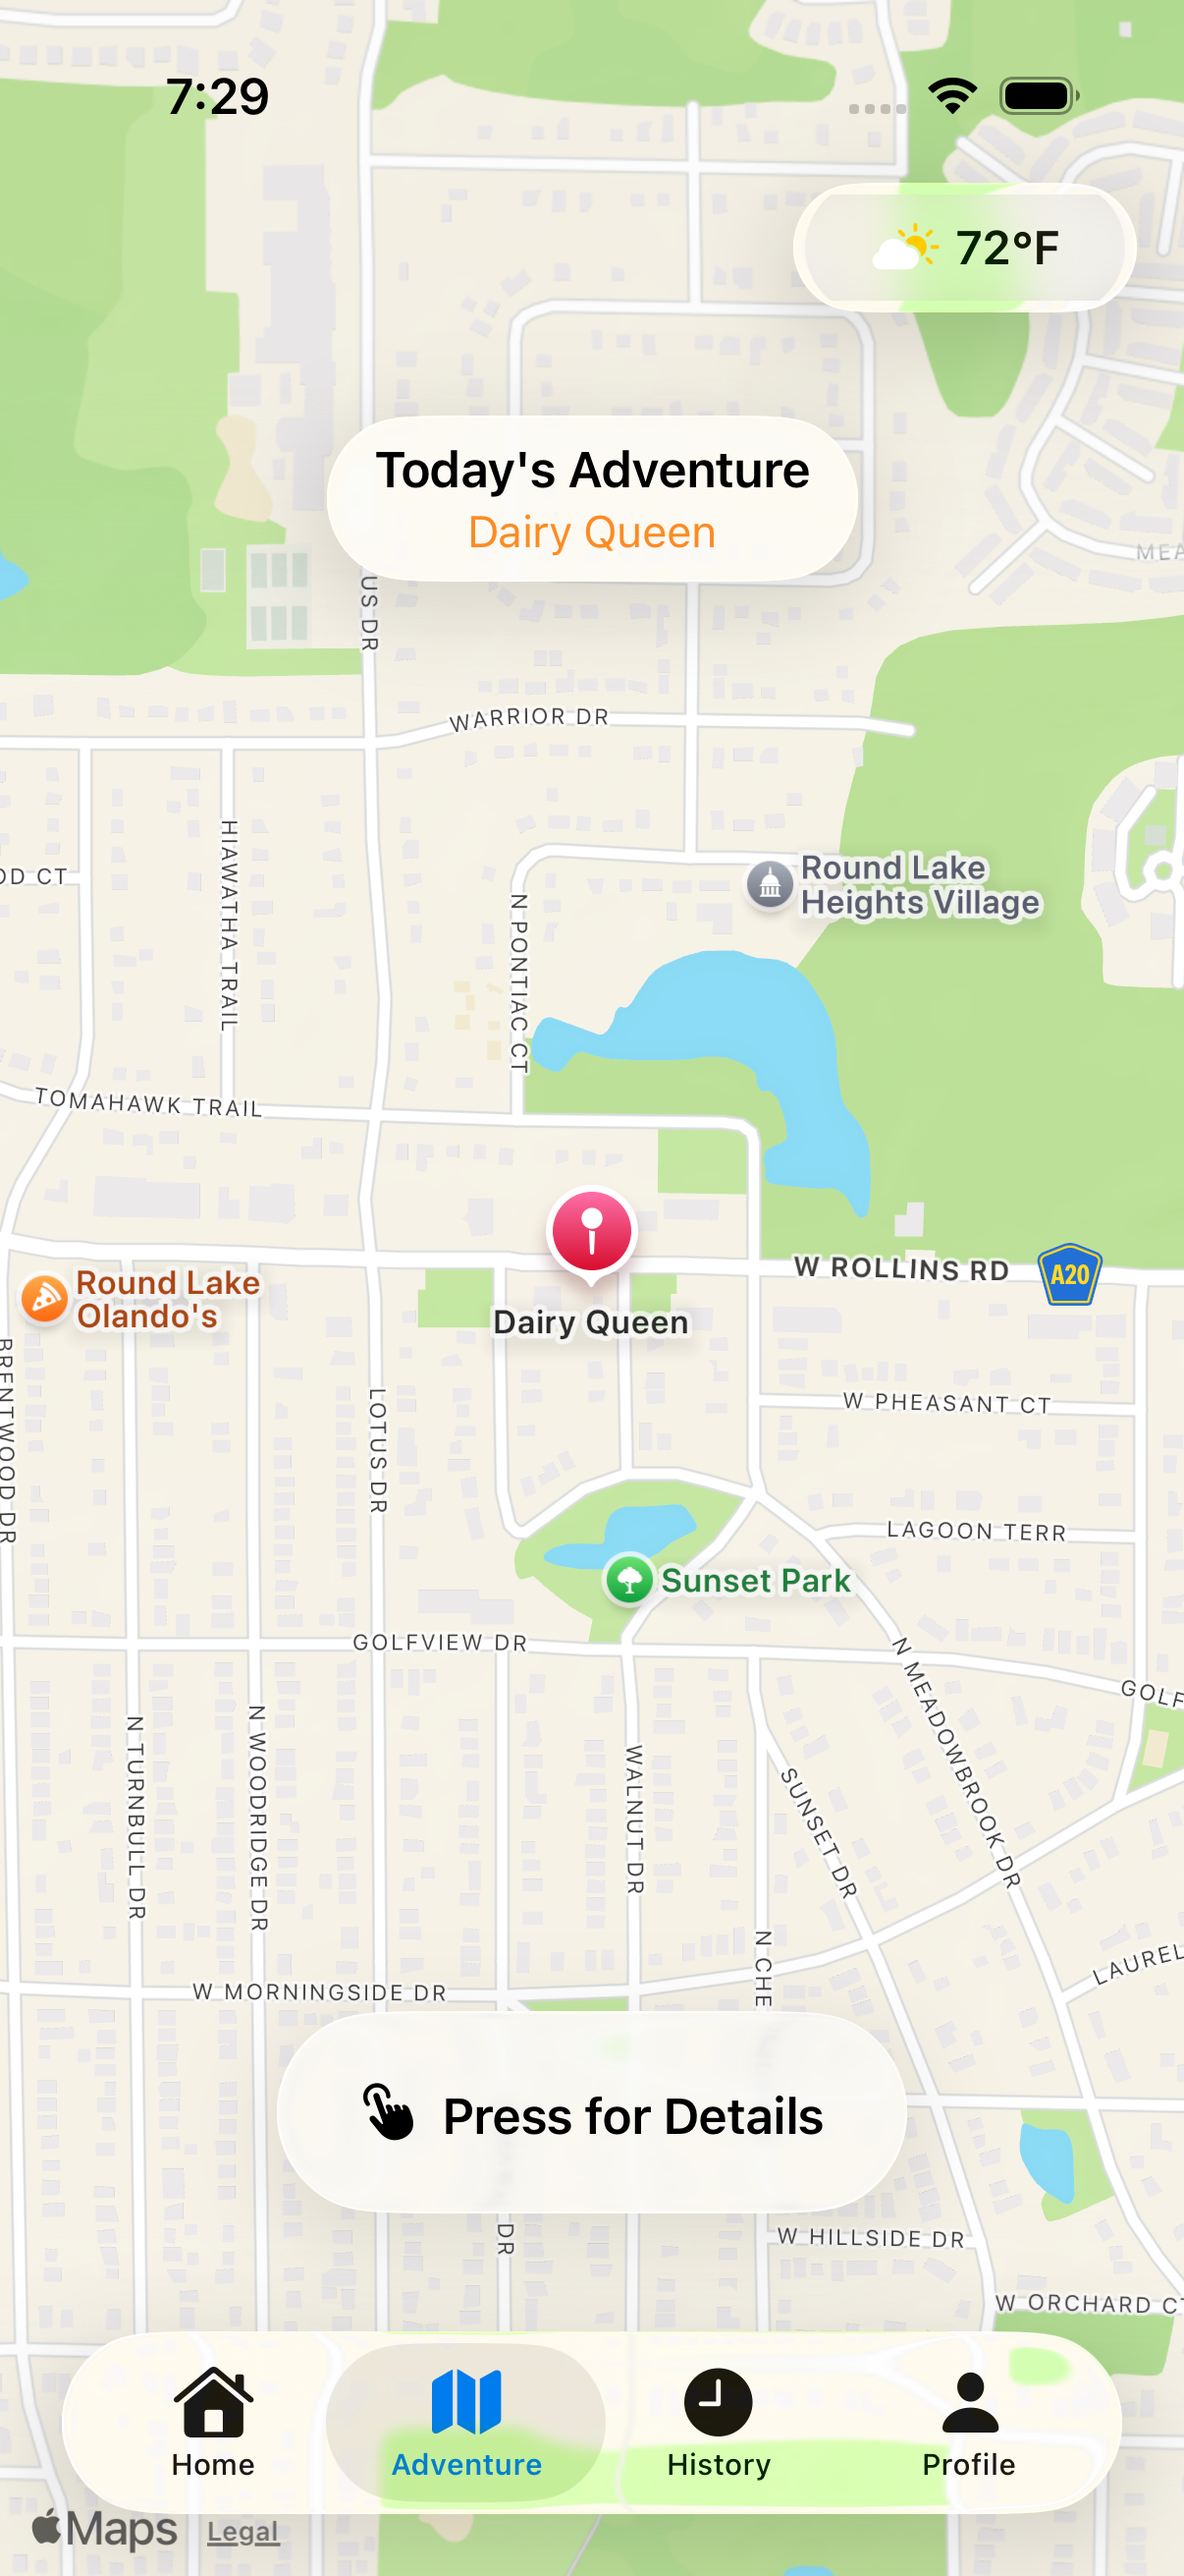
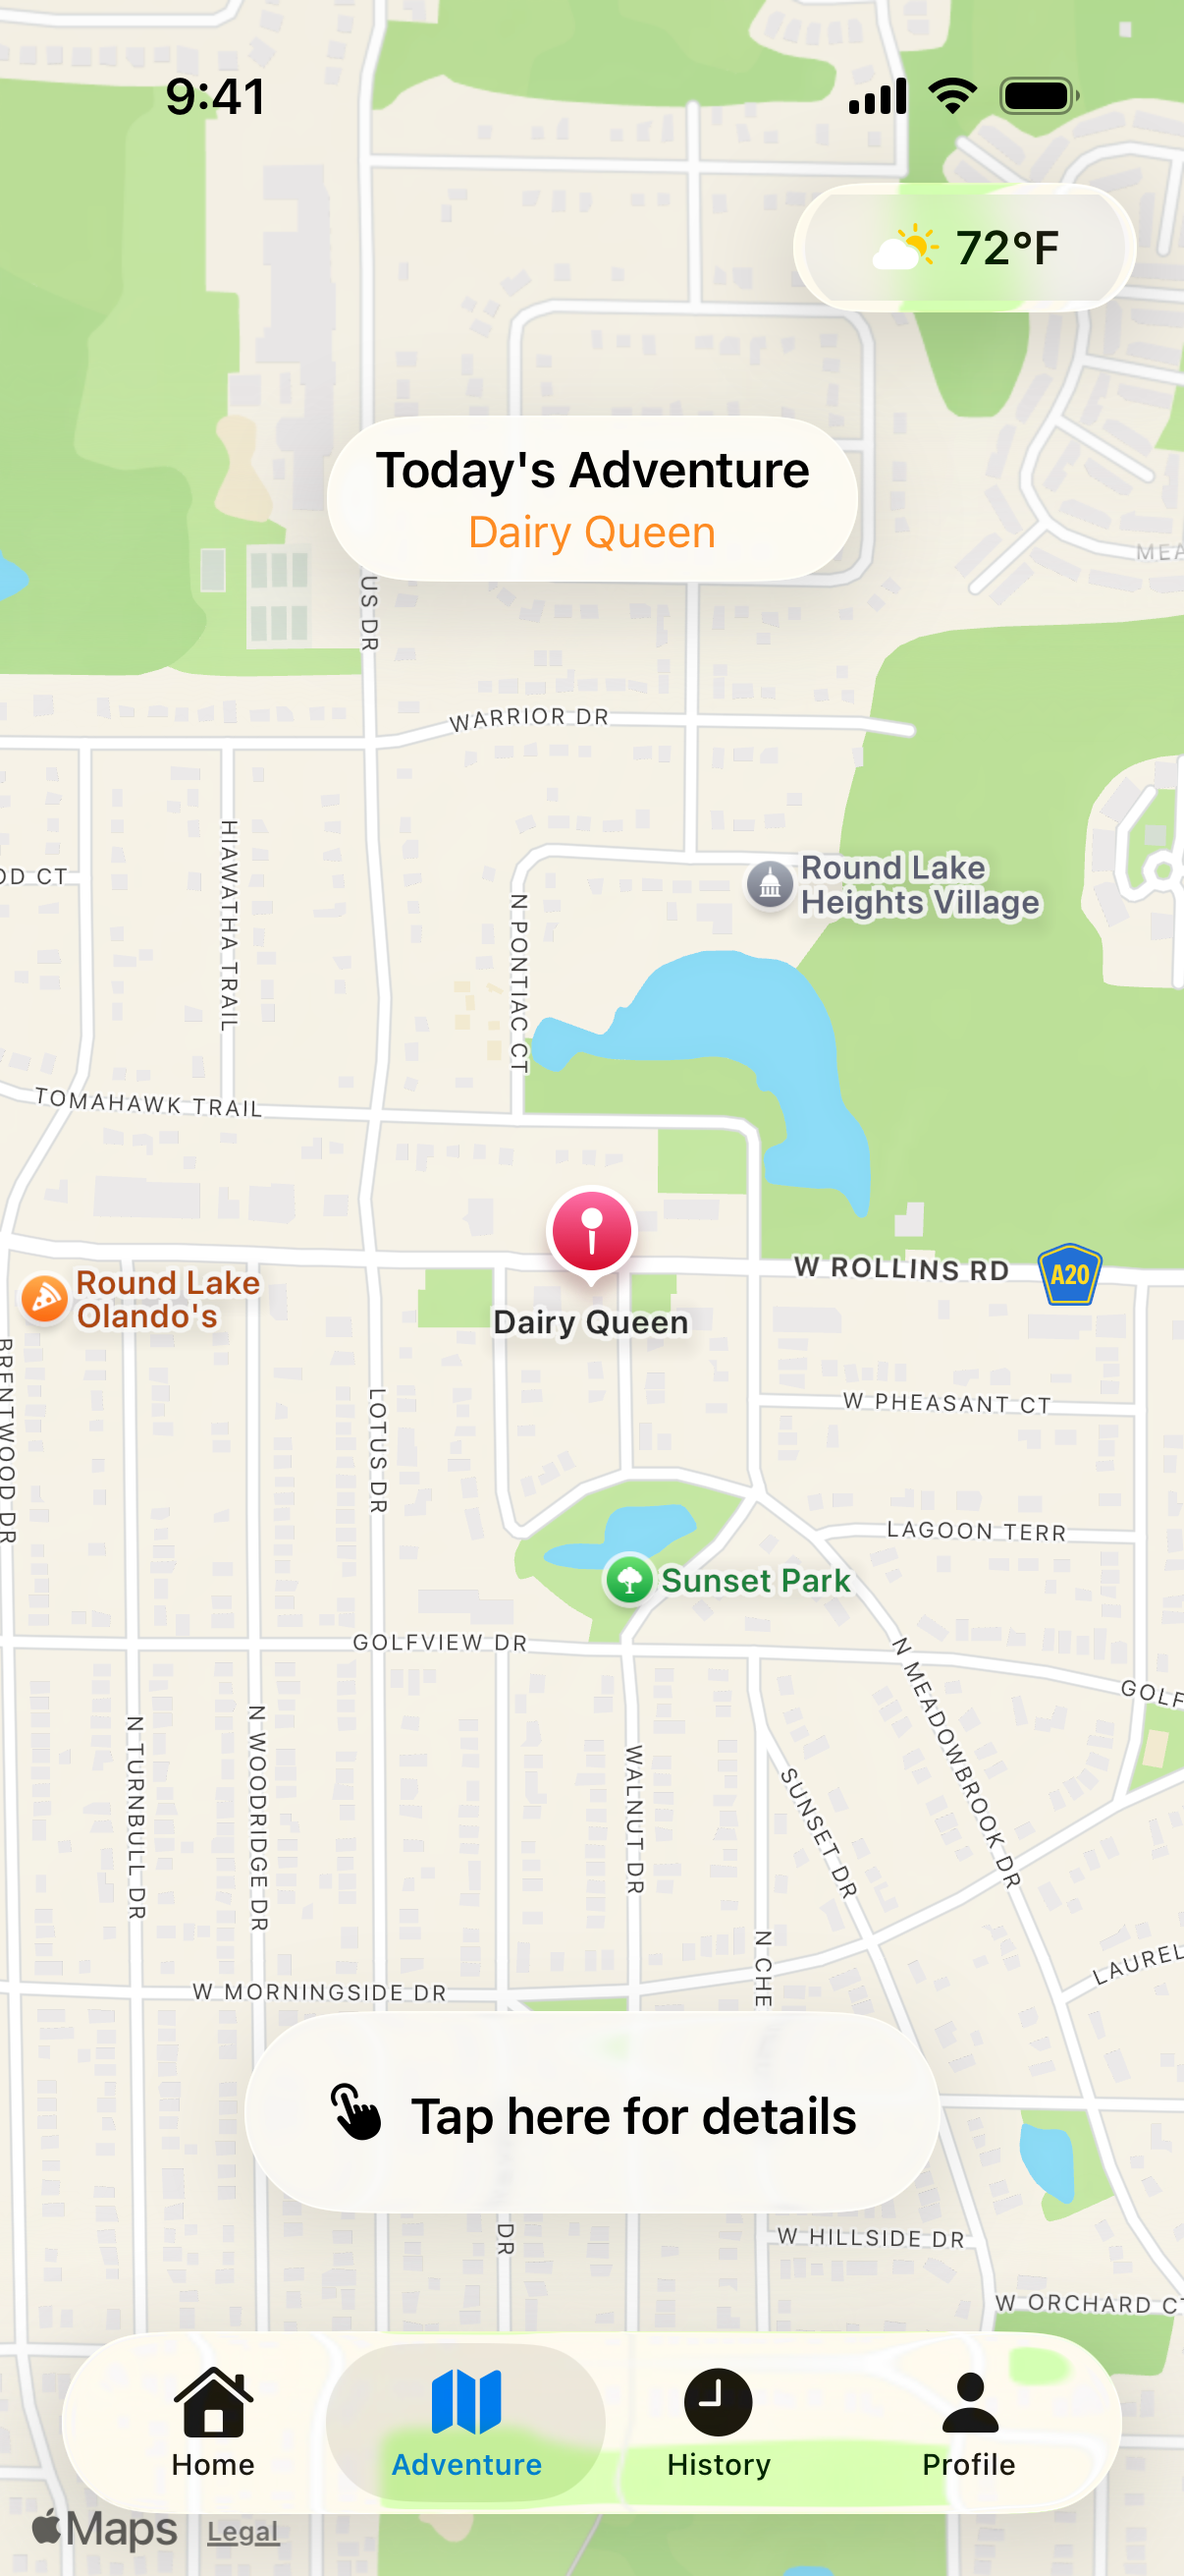
🔒 Name PostHog US data transfer in privacy policy and refresh Adventurous pages

diff --git a/content/privacy-policy.md b/content/privacy-policy.md
@@ -6,13 +6,13 @@ hiddenFromHomePage = true
 hiddenFromSearch = true
 +++
 
-**Last updated: June 18, 2026**
+**Last updated: September 12, 2026**
 
 ## In Simple Terms
 
 We built Adventurous to be genuinely useful, not to harvest your data. The app works primarily on your device — your location, your preferences, your adventure history — and we don't sell, share, or commercialize your personal information.
 
-In the vast majority of cases, we know very little about you personally. What we do collect, we collect to make the app work better.
+What we do collect — product analytics and crash reports — we collect to make the app work better. That data is processed by **PostHog** on servers in the **United States**.
 
 ---
 
@@ -27,13 +27,23 @@ Adventurous is developed and operated by **3 Stags LLC**, a veteran-owned small 
 ## Information We Collect
 
 ### Location
-Adventurous requests access to your location to generate your daily adventure recommendation. Your location is used on-device at the moment you request an adventure and is not stored on our servers. If you have enabled adventure notifications, the app may use background location access to notify you when you arrive near your adventure destination — this location data is processed locally and not transmitted to us.
+Adventurous requests access to your location to generate your daily adventure recommendation. Your precise location is used on-device at the moment you request an adventure and is not stored on our servers. To find places and weather near your adventure, the app sends the adventure's coordinates to Apple's MapKit and WeatherKit services, which are governed by Apple's privacy policy. If you have enabled adventure notifications, the app may use background location access to notify you when you arrive near your adventure destination — this location data is processed locally and not transmitted to us.
 
 ### Contacts
 If you choose to set a profile photo using a contact's image, Adventurous requests read access to your contacts for that purpose only. We do not read, store, or transmit your contacts list. The selected photo is stored locally on your device.
 
 ### Usage Analytics
-We use **PostHog** (posthog.com) to collect anonymous usage data that helps us understand how the app is being used and improve it over time. This includes events such as app launch, adventure generation, and in-app actions. Analytics data does not include your precise location or personally identifying information. PostHog's privacy policy is available at [posthog.com/privacy](https://posthog.com/privacy).
+We use **PostHog** (posthog.com), a product analytics service operated by PostHog, Inc., to understand how the app is being used and improve it over time. PostHog collects:
+
+- **Product interaction** — events such as app launch, onboarding steps, adventure generation, adventure ratings, and changes to your settings
+- **Purchase activity** — subscription screens viewed, purchases, restores, and trial status (never your payment details)
+- **Approximate location** — a city- or region-level location PostHog derives from your IP address, plus the approximate distance to your adventure. Your precise GPS location is never sent.
+- **Device and diagnostic information** — device model, OS version, app version, and errors encountered
+
+If you sign in with Apple, analytics are linked to the anonymous identifier Apple provides for your account. Your name and email are never sent to PostHog. We do not use this data for advertising or to track you across other apps and websites.
+
+### Crash Reports
+If Adventurous crashes or hits an unexpected error, a crash report — including technical details such as the stack trace, device model, OS version, and app version — is sent to **PostHog** so we can find and fix the problem. Crash reports are linked to the same identifier as your analytics.
 
 ### Preferences and App Data
 Your app preferences — including day-type settings, distance preferences, notification settings, and appearance mode — are stored locally on your device and synced across your own devices via **iCloud** (Apple's iCloud Key-Value Store). This data is associated with your iCloud account and governed by Apple's iCloud terms and privacy policy.
@@ -42,7 +52,7 @@ Your app preferences — including day-type settings, distance preferences, noti
 Records of your past adventures (dates, locations visited, and votes) are stored locally on your device using Apple's SwiftData framework. This data is not transmitted to our servers.
 
 ### Apple Sign In
-If you sign in to Adventurous using Sign in with Apple, Apple handles authentication and we receive only the information Apple provides (typically a unique identifier and, if you choose, your name and email). Your Apple credentials are never stored by us. Refer to [Apple's Privacy Policy](https://www.apple.com/legal/privacy/) for details on how Apple handles this data.
+If you sign in to Adventurous using Sign in with Apple, Apple handles authentication and we receive only the information Apple provides (typically a unique identifier and, if you choose, your name and email). Your name and email are stored on your device and in your iCloud account, not on our servers. Your Apple credentials are never stored by us. Refer to [Apple's Privacy Policy](https://www.apple.com/legal/privacy/) for details on how Apple handles this data.
 
 ### Notifications
 Adventurous may send you local push notifications, such as daily adventure reminders or prompts to rate an adventure you visited. These notifications are scheduled on your device and do not require us to store your data on a server.
@@ -53,6 +63,7 @@ Adventurous may send you local push notifications, such as daily adventure remin
 
 - **Location** — to generate your personalized daily adventure
 - **Analytics** — to understand usage patterns and improve the app experience
+- **Crash reports** — to diagnose and fix bugs
 - **Preferences** — to remember your settings across app launches and devices
 - **Authentication** — to identify your account if you choose to sign in
 
@@ -60,18 +71,26 @@ Adventurous may send you local push notifications, such as daily adventure remin
 
 ## Data Sharing
 
-We do not sell your personal information. We share data only as follows:
+We do not sell your personal information. We share data only with the service providers below, who process it on our behalf:
 
-- **PostHog** — receives anonymized usage analytics as described above
-- **Apple** — processes authentication (Sign in with Apple) and payments (App Store / StoreKit). We never receive or store your payment information.
+- **PostHog, Inc.** — receives the usage analytics and crash reports described above. PostHog's privacy policy is available at [posthog.com/privacy](https://posthog.com/privacy).
+- **Apple** — processes authentication (Sign in with Apple), payments (App Store / StoreKit), iCloud sync, and map and weather lookups (MapKit / WeatherKit). We never receive or store your payment information.
 
 We do not use advertising networks, analytics SDKs that serve ads, or third-party data brokers.
 
 ---
 
+## International Data Transfers
+
+3 Stags LLC is based in the United States, and our analytics provider, PostHog, stores and processes data on its **US Cloud** servers in the **United States**. App traffic is routed to PostHog through our own domain (`n.3-stags.com`), which forwards it to PostHog's US infrastructure.
+
+If you use Adventurous from outside the United States — including the European Economic Area, the United Kingdom, or Switzerland — your analytics and crash data will be transferred to and processed in the United States, where data protection laws may differ from those in your country. Where required, these transfers rely on appropriate safeguards such as the European Commission's Standard Contractual Clauses included in PostHog's data processing agreement.
+
+---
+
 ## Subscriptions and Payments
 
-Adventurous offers optional subscriptions purchased through the **Apple App Store**. All payment processing is handled entirely by Apple. We do not receive or store your credit card or payment information. Subscription management is handled through your Apple ID settings.
+Adventurous offers a free trial followed by optional subscriptions purchased through the **Apple App Store**. All payment processing is handled entirely by Apple. We do not receive or store your credit card or payment information. Subscription management is handled through your Apple ID settings.
 
 ---
 
@@ -79,7 +98,10 @@ Adventurous offers optional subscriptions purchased through the **Apple App Stor
 
 Most of your data lives on your device and in your personal iCloud account. You can delete Adventurous at any time, which will remove all locally stored data. To remove iCloud synced preferences, you can manage iCloud data in your device's Settings app.
 
-If you have signed in with Apple and would like your analytics data removed from PostHog, contact us at [hello@3-stags.com](mailto:hello@3-stags.com) and we will delete any data associated with your account.
+### Deleting Your Account
+If you are signed in, you can delete your account from the **Profile** screen by tapping **Delete Account**. This removes your Apple account identifier, name, email, and profile photo from your device and iCloud, and disconnects future analytics from your account. Your free trial dates are kept so a trial can't be restarted.
+
+In-app deletion does not yet remove analytics or crash data already sent to PostHog. To have that data deleted, contact us at [hello@3-stags.com](mailto:hello@3-stags.com) and we will delete any data associated with your account. You can also stop using Sign in with Apple for Adventurous at any time from your Apple ID settings.
 
 ---
 
@@ -91,7 +113,7 @@ Adventurous is not directed at children under the age of 13, and we do not knowi
 
 ## Your Rights
 
-Depending on where you live, you may have rights regarding your personal data, including the right to access, correct, or delete it. To exercise any of these rights, contact us at [hello@3-stags.com](mailto:hello@3-stags.com).
+Depending on where you live, you may have rights regarding your personal data, including the right to access, correct, or delete it, and to object to or restrict its processing. To exercise any of these rights, contact us at [hello@3-stags.com](mailto:hello@3-stags.com).
 
 ---
 

diff --git a/content/software.md b/content/software.md
@@ -25,18 +25,20 @@ The app gives you a fresh adventure location every single day — different each
 - 🎯 **Personalized to your life** — respects your work days and days off
 - 📍 **Local and nearby** — adventures scaled to how far you can realistically go
 - 🌤 **Points of interest and weather** — everything you need to make the call
+- 🎢 **A fresh theme each day** — parks, museums, food, and more, without repeating recent places
+- ⏰ **Daily reminders** — a nudge as early as 7 AM, plus a prompt to rate where you went
+- 🧭 **Guided setup** — a quick onboarding flow gets your first adventure going in seconds
+- 🔒 **Private by design** — your location and history stay on your device. [Privacy policy](/privacy-policy)
 
 <div class="app-screenshots">
-  <img class="app-screenshot-light" src="/images/app/home-light.png" alt="Adventurous home screen">
-  <img class="app-screenshot-light" src="/images/app/adventure-light.png" alt="Adventurous adventure map">
-  <img class="app-screenshot-light" src="/images/app/history-light.png" alt="Adventurous adventure history">
-  <img class="app-screenshot-dark" src="/images/app/home-dark.png" alt="Adventurous home screen">
-  <img class="app-screenshot-dark" src="/images/app/adventure-dark.png" alt="Adventurous adventure map">
-  <img class="app-screenshot-dark" src="/images/app/history-dark.png" alt="Adventurous adventure history">
+  <img src="/images/app/home-light.png" alt="Adventurous home screen">
+  <img src="/images/app/adventure-light.png" alt="Adventurous adventure map">
+  <img src="/images/app/history-light.png" alt="Adventurous adventure history">
 </div>
 
-**Platform:** iOS 17+  
-**Status:** Coming soon
+**Platform:** iOS 26+  
+**Pricing:** Free 4-day trial, then Personal Weekly ($6.99), Personal Annual ($59.99), or Family Annual ($119.99, shareable with Family Sharing)  
+**Status:** In beta on TestFlight — App Store launch coming soon
 
 ---
 

diff --git a/content/posts/adventurous-coming-soon.md b/content/posts/adventurous-coming-soon.md
@@ -14,12 +14,9 @@ We've been working on something new.
 The app gives you a fresh adventure location every single day — different each time, calibrated to your schedule, and ready to go when you are. Check the weather, see what's around, and decide if today is the day you go.
 
 <div class="app-screenshots">
-  <img class="app-screenshot-light" src="/images/app/home-light.png" alt="Adventurous home screen">
-  <img class="app-screenshot-light" src="/images/app/adventure-light.png" alt="Adventurous adventure map">
-  <img class="app-screenshot-light" src="/images/app/history-light.png" alt="Adventurous adventure history">
-  <img class="app-screenshot-dark" src="/images/app/home-dark.png" alt="Adventurous home screen">
-  <img class="app-screenshot-dark" src="/images/app/adventure-dark.png" alt="Adventurous adventure map">
-  <img class="app-screenshot-dark" src="/images/app/history-dark.png" alt="Adventurous adventure history">
+  <img src="/images/app/home-light.png" alt="Adventurous home screen">
+  <img src="/images/app/adventure-light.png" alt="Adventurous adventure map">
+  <img src="/images/app/history-light.png" alt="Adventurous adventure history">
 </div>
 
 We're not ready to say more yet, but we're getting close.
